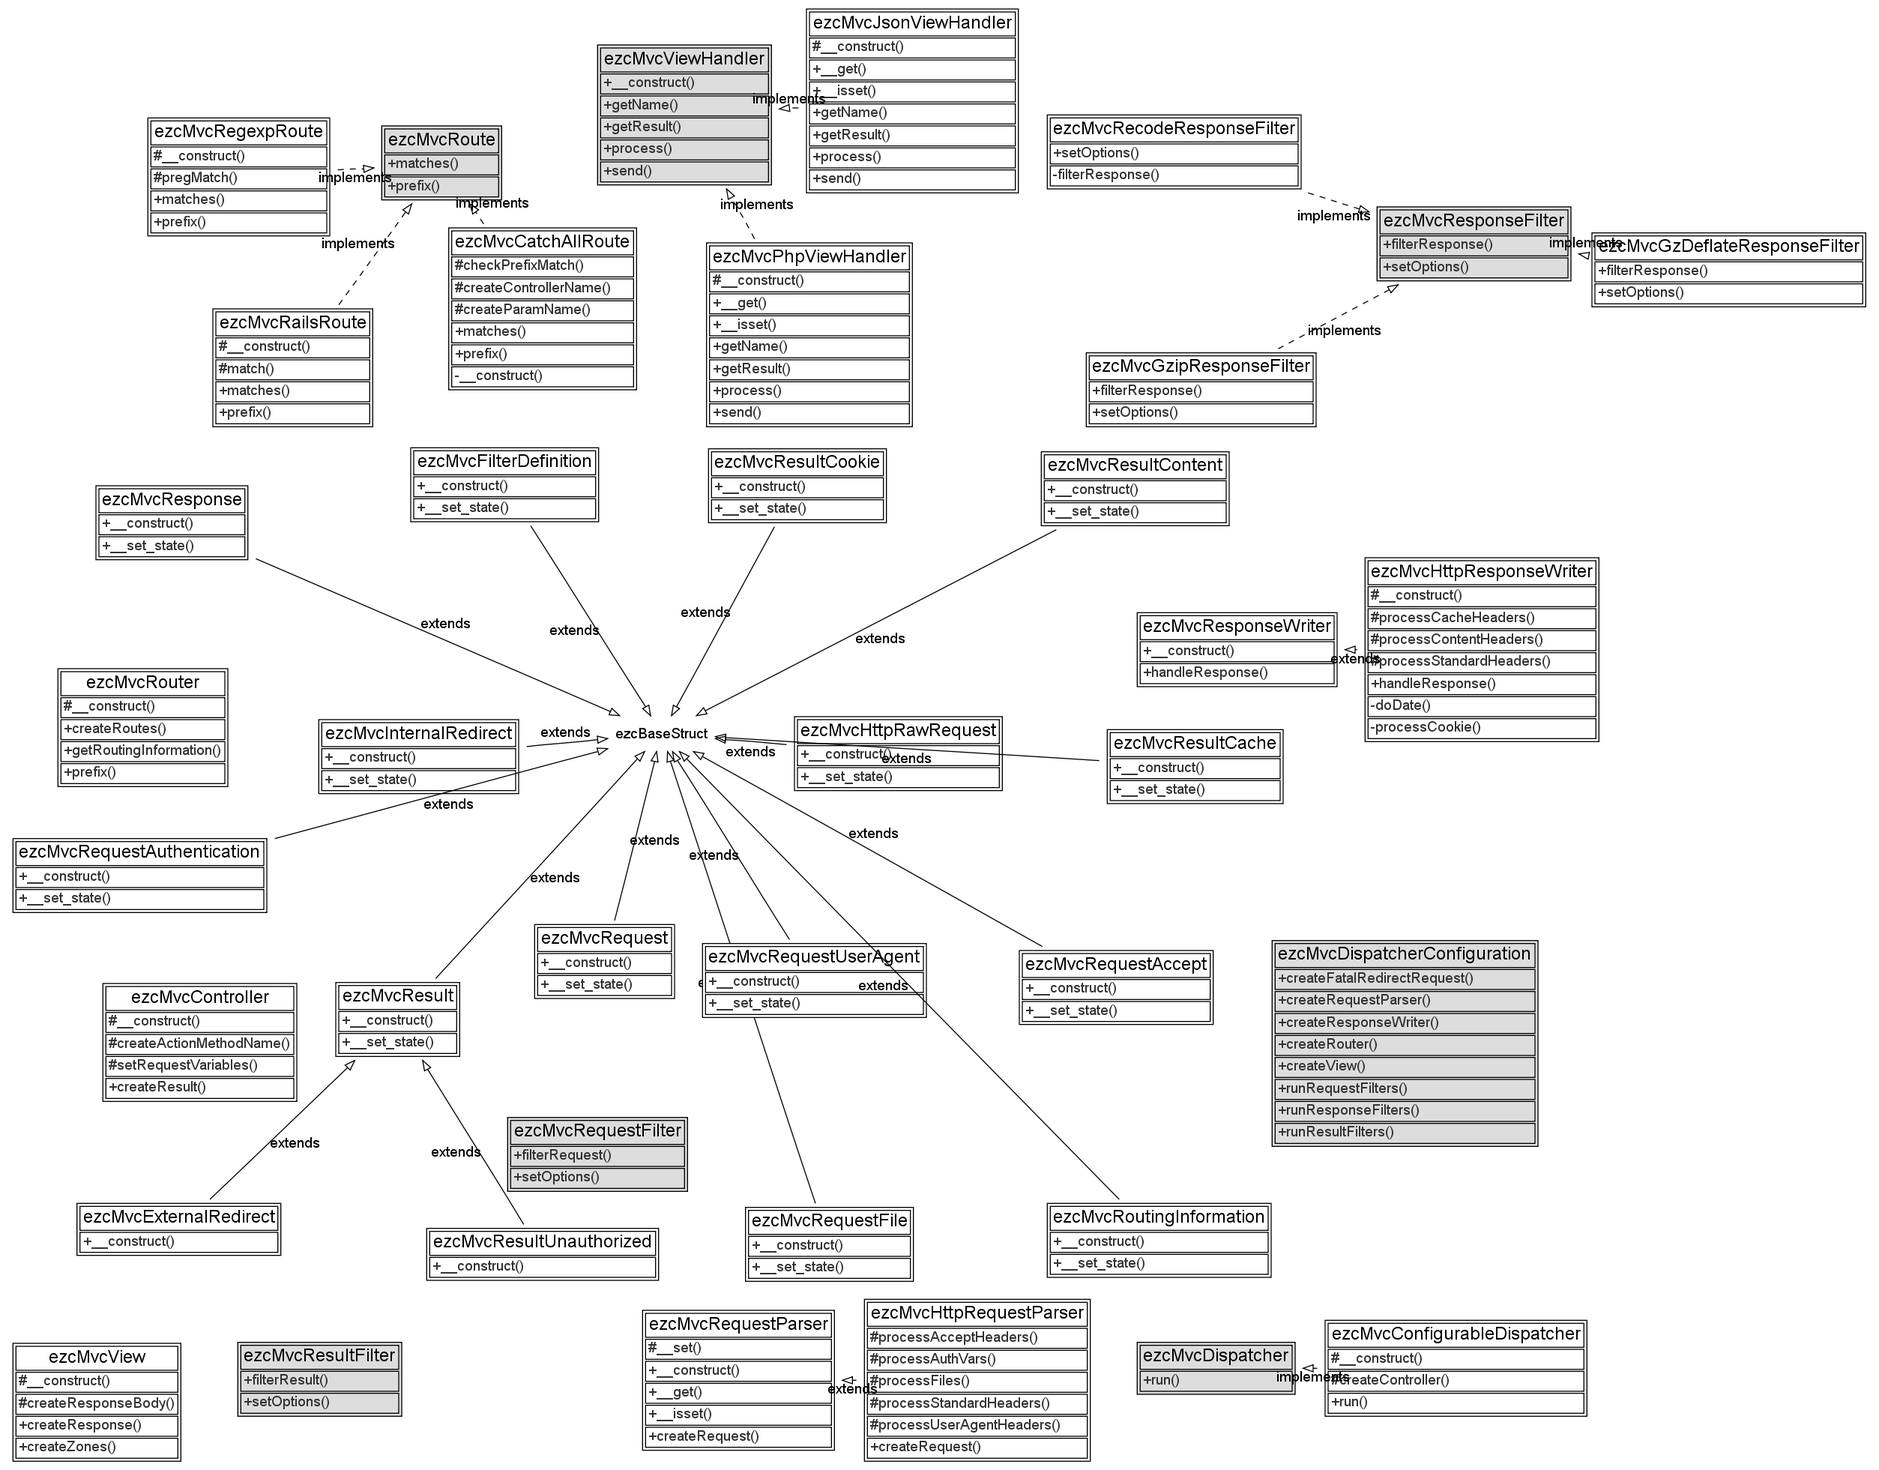
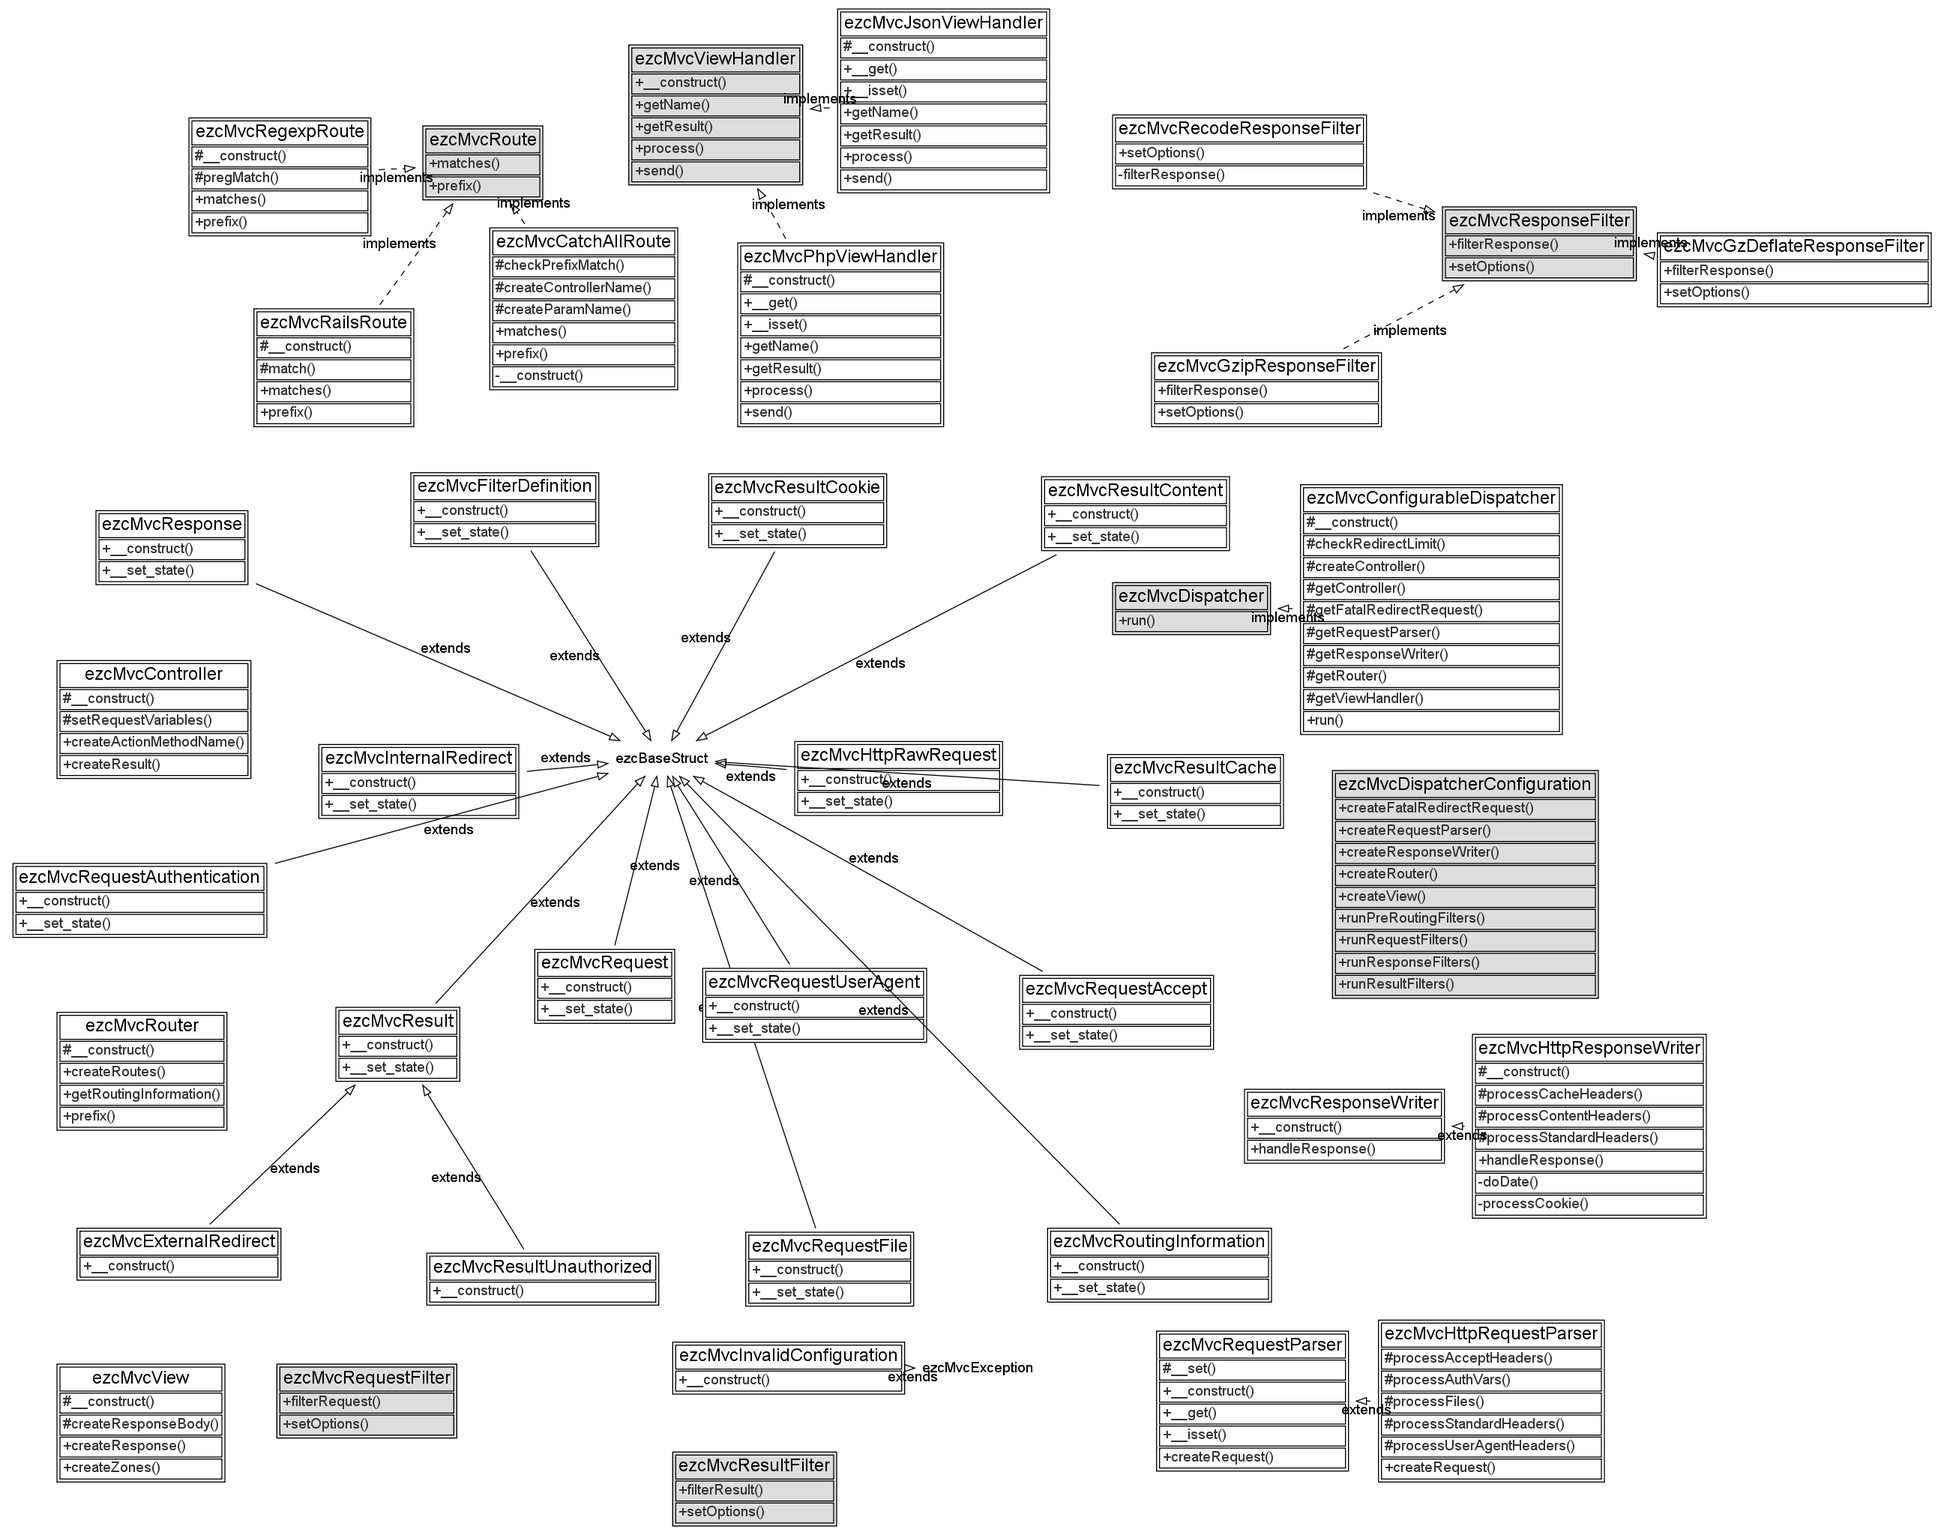
- Implemented issue #13926: Split ezcMvcDispatcherConfigurable::run() into   smaller parts.

diff --git a/src/dispatchers/configurable.php b/src/dispatchers/configurable.php
@@ -50,43 +50,161 @@ class ezcMvcConfigurableDispatcher implements ezcMvcDispatcher
     }
 
     /**
-     * Runs through the request, by using the configuration to obtain correct
-     * handlers.
+     * Checks whether the number of redirects does not exceed the limit, and
+     * increases the $redirects count.
+     *
+     * @throws ezcMvcInfiniteLoopException when the number of redirects exceeds
+     *         the limit (25 by default).
+     */
+    protected function checkRedirectLimit( &$redirects )
+    {
+        $redirects++;
+        if ( $redirects >= 25 )
+        {
+            throw new ezcMvcInfiniteLoopException( $redirects );
+        }
+    }
+
+    /**
+     * Uses the configuration to fetch the request parser
+     *
+     * @throws ezcMvcInvalidConfiguration when the returned object is of the wrong class
+     *
+     * @return ezcMvcRequestParser
+     */
+    protected function getRequestParser()
+    {
+        // create the request parser
+        $requestParser = $this->configuration->createRequestParser();
+        if ( ezcBase::inDevMode() && !$requestParser instanceof ezcMvcRequestParser )
+        {
+            throw new ezcMvcInvalidConfiguration( 'requestParser', $requestParser, 'instance of ezcMvcRequestParser' );
+        }
+        return $requestParser;
+    }
+
+    /**
+     * Uses the configuration to fetch the router
+     *
+     * @throws ezcMvcInvalidConfiguration when the returned object is of the wrong class
+     *
+     * @param ezcMvcRequest $request
+     * @return ezcMvcRouter
+     */
+    protected function getRouter( ezcMvcRequest $request )
+    {
+        $router = $this->configuration->createRouter( $request );
+        if ( ezcBase::inDevMode() && !$router instanceof ezcMvcRouter )
+        {
+            throw new ezcMvcInvalidConfiguration( 'router', $router, 'instance of ezcMvcRouter' );
+        }
+        return $router;
+    }
+
+    /**
+     * Uses the router (through createController()) to fetch the controller
+     *
+     * @throws ezcMvcInvalidConfiguration when the returned object is of the wrong class
+     *
+     * @param ezcMvcRoutingInformation $routingInformation
+     * @param ezcMvcRequest            $request
+     * @return ezcMvcController
+     */
+    protected function getController( ezcMvcRoutingInformation $routingInformation, ezcMvcRequest $request )
+    {
+        $controller = $this->createController( $routingInformation, $request );
+        if ( ezcBase::inDevMode() && !$controller instanceof ezcMvcController )
+        {
+            throw new ezcMvcInvalidConfiguration( 'controller', $controller, 'instance of ezcMvcController' );
+        }
+        return $controller;
+    }
+
+    /**
+     * Uses the configuration to fetch the view handler
+     *
+     * @throws ezcMvcInvalidConfiguration when the returned object is of the wrong class
+     *
+     * @param ezcMvcRoutingInformation $routingInformation
+     * @param ezcMvcRequest            $request
+     * @param ezcMvcResult             $result
+     * @return ezcMvcView
+     */
+    protected function getViewHandler( ezcMvcRoutingInformation $routingInformation, ezcMvcRequest $request, ezcMvcResult $result )
+    {
+        $viewHandler = $this->configuration->createView( $routingInformation, $request, $result );
+        if ( ezcBase::inDevMode() && !$viewHandler instanceof ezcMvcView )
+        {
+            throw new ezcMvcInvalidConfiguration( 'view', $viewHandler, 'instance of ezcMvcView' );
+        }
+        return $viewHandler;
+    }
+
+    /**
+     * Uses the configuration to fetch a fatal redirect request object
+     *
+     * @throws ezcMvcInvalidConfiguration when the returned object is of the wrong class
+     *
+     * @param ezcMvcRequest $request
+     * @param ezcMvcResult  $result
+     * @param Exception     $e
+     * @return ezcMvcRequest
+     */
+    protected function getFatalRedirectRequest( ezcMvcRequest $request, ezcMvcResult $result, Exception $e )
+    {
+        $request = $this->configuration->createFatalRedirectRequest( $request, new ezcMvcResult, $e );
+        if ( ezcBase::inDevMode() && !$request instanceof ezcMvcRequest )
+        {
+            throw new ezcMvcInvalidConfiguration( 'request', $request, 'instance of ezcMvcRequest' );
+        }
+        return $request;
+    }
+
+    /**
+     * Uses the configuration to fetch the response writer
+     *
+     * @throws ezcMvcInvalidConfiguration when the returned object is of the wrong class
+     *
+     * @param ezcMvcRoutingInformation $routingInformation
+     * @param ezcMvcRequest            $request
+     * @param ezcMvcResult             $result
+     * @param ezcMvcResponse           $response
+     * @return ezcMvcResponseWriter
+     */
+    protected function getResponseWriter( ezcMvcRoutingInformation $routingInformation, ezcMvcRequest $request, ezcMvcResult $result, ezcMvcResponse $response )
+    {
+        $responseWriter = $this->configuration->createResponseWriter( $routingInformation, $request, $result, $response );
+        if ( ezcBase::inDevMode() && !$responseWriter instanceof ezcMvcResponseWriter )
+        {
+            throw new ezcMvcInvalidConfiguration( 'responseWriter', $responseWriter, 'instance of ezcMvcResponseWriter' );
+        }
+        return $responseWriter;
+    }
+
+    /**
+     * Runs through the request, by using the configuration to obtain correct handlers.
      */
     public function run()
     {
         // initialize infinite loop counter
         $redirects = 0;
 
-        // create the request parser
-        $requestParser = $this->configuration->createRequestParser();
-        if ( ezcBase::inDevMode() && !$requestParser instanceof ezcMvcRequestParser )
-        {
-            throw new ezcBaseValueException( 'requestParser', $requestParser, 'instance of ezcMvcRequestParser' );
-        }
-
         // create the request
+        $requestParser = $this->getRequestParser();
         $request = $requestParser->createRequest();
 
         // start of the request loop
         do
         {
             // do the infinite loop check
-            if ( $redirects >= 25 )
-            {
-                throw new ezcMvcInfiniteLoopException( $redirects );
-            }
+            $this->checkRedirectLimit( $redirects );
             $continue = false;
 
             // run pre-routing filters
             $this->configuration->runPreRoutingFilters( $request );
 
             // create the router from the configuration
-            $router = $this->configuration->createRouter( $request );
-            if ( ezcBase::inDevMode() && !$router instanceof ezcMvcRouter )
-            {
-                throw new ezcBaseValueException( 'router', $router, 'instance of ezcMvcRouter' );
-            }
+            $router = $this->getRouter( $request );
 
             // router creates routing information
             try
@@ -95,9 +213,8 @@ class ezcMvcConfigurableDispatcher implements ezcMvcDispatcher
             }
             catch ( ezcMvcRouteNotFoundException $e )
             {
-                $request = $this->configuration->createFatalRedirectRequest( $request, new ezcMvcResult, $e );
+                $request = $this->getFatalRedirectRequest( $request, new ezcMvcResult, $e );
                 $continue = true;
-                $redirects++;
                 continue;
             }
 
@@ -108,12 +225,11 @@ class ezcMvcConfigurableDispatcher implements ezcMvcDispatcher
             {
                 $request = $filterResult->request;
                 $continue = true;
-                $redirects++;
                 continue;
             }
 
             // create the controller
-            $controller = $this->createController( $routingInformation, $request );
+            $controller = $this->getController( $routingInformation, $request );
 
             // run the controller
             try
@@ -122,13 +238,8 @@ class ezcMvcConfigurableDispatcher implements ezcMvcDispatcher
             }
             catch ( Exception $e )
             {
-                $request = $this->configuration->createFatalRedirectRequest( $request, new ezcMvcResult, $e );
-                if ( ezcBase::inDevMode() && !$request instanceof ezcMvcRequest )
-                {
-                    throw new ezcBaseValueException( 'request', $request, 'instance of ezcMvcRequest' );
-                }
+                $request = $this->getFatalRedirectRequest( $request, new ezcMvcResult, $e );
                 $continue = true;
-                $redirects++;
                 continue;
             }
 
@@ -136,7 +247,6 @@ class ezcMvcConfigurableDispatcher implements ezcMvcDispatcher
             {
                 $request = $result->request;
                 $continue = true;
-                $redirects++;
                 continue;
             }
             if ( !$result instanceof ezcMvcResult )
@@ -154,11 +264,7 @@ class ezcMvcConfigurableDispatcher implements ezcMvcDispatcher
             else
             {
                 // want the view manager to use my filters
-                $viewHandler = $this->configuration->createView( $routingInformation, $request, $result );
-                if ( ezcBase::inDevMode() && !$viewHandler instanceof ezcMvcView )
-                {
-                    throw new ezcBaseValueException( 'view', $viewHandler, 'instance of ezcMvcView' );
-                }
+                $viewHandler = $this->getViewHandler( $routingInformation, $request, $result );
 
                 // create the response
                 try
@@ -167,20 +273,15 @@ class ezcMvcConfigurableDispatcher implements ezcMvcDispatcher
                 }
                 catch ( Exception $e )
                 {
-                    $request = $this->configuration->createFatalRedirectRequest( $request, $result, $e );
+                    $request = $this->getFatalRedirectRequest( $request, $result, $e );
                     $continue = true;
-                    $redirects++;
                     continue;
                 }
             }
             $this->configuration->runResponseFilters( $routingInformation, $request, $result, $response );
 
             // create the response writer
-            $responseWriter = $this->configuration->createResponseWriter( $routingInformation, $request, $result, $response );
-            if ( ezcBase::inDevMode() && !$responseWriter instanceof ezcMvcResponseWriter )
-            {
-                throw new ezcBaseValueException( 'responseWriter', $responseWriter, 'instance of ezcMvcResponseWriter' );
-            }
+            $responseWriter = $this->getResponseWriter( $routingInformation, $request, $result, $response );
 
             // handle the response
             $responseWriter->handleResponse();

diff --git a/tests/dispatchers/configurable.php b/tests/dispatchers/configurable.php
@@ -162,7 +162,7 @@ class ezcMvcToolsConfigurableDispatcherTest extends ezcTestCase
             $dispatcher->run();
             self::fail( "Expected exception not thrown." );
         }
-        catch ( ezcBaseValueException $e )
+        catch ( ezcMvcInvalidConfiguration $e )
         {
             return $e->getMessage();
         }
@@ -171,31 +171,37 @@ class ezcMvcToolsConfigurableDispatcherTest extends ezcTestCase
     public function testWrongRequestParserClass()
     {
         $e = self::commonWrongTest( 'request-parser' );
-        self::assertEquals( "The value 'O:8:\"stdClass\":0:{}' that you were trying to assign to setting 'requestParser' is invalid. Allowed values are: instance of ezcMvcRequestParser.", $e );
+        self::assertEquals( "The configuration returned an invalid object for 'requestParser', instance of ezcMvcRequestParser expected, but instance of class stdClass found.", $e );
     }
 
     public function testWrongRouterClass()
     {
         $e = self::commonWrongTest( 'router' );
-        self::assertEquals( "The value 'O:8:\"stdClass\":0:{}' that you were trying to assign to setting 'router' is invalid. Allowed values are: instance of ezcMvcRouter.", $e );
+        self::assertEquals( "The configuration returned an invalid object for 'router', instance of ezcMvcRouter expected, but instance of class stdClass found.", $e );
     }
 
     public function testWrongViewClass()
     {
         $e = self::commonWrongTest( 'view' );
-        self::assertEquals( "The value 'O:8:\"stdClass\":0:{}' that you were trying to assign to setting 'view' is invalid. Allowed values are: instance of ezcMvcView.", $e );
+        self::assertEquals( "The configuration returned an invalid object for 'view', instance of ezcMvcView expected, but instance of class stdClass found.", $e );
+    }
+
+    public function testWrongControllerClass()
+    {
+        $e = self::commonWrongTest( 'controller' );
+        self::assertEquals( "The configuration returned an invalid object for 'controller', instance of ezcMvcController expected, but instance of class stdClass found.", $e );
     }
 
     public function testWrongResponseWriter()
     {
         $e = self::commonWrongTest( 'response-writer' );
-        self::assertEquals( "The value 'O:8:\"stdClass\":1:{s:6:\"config\";O:29:\"testWrongObjectsConfiguration\":1:{s:4:\"fail\";s:15:\"response-writer\";}}' that you were trying to assign to setting 'responseWriter' is invalid. Allowed values are: instance of ezcMvcResponseWriter.", $e );
+        self::assertEquals( "The configuration returned an invalid object for 'responseWriter', instance of ezcMvcResponseWriter expected, but instance of class stdClass found.", $e );
     }
 
     public function testWrongFatalRedirectClass()
     {
         $e = self::commonWrongTest( 'fatal' );
-        self::assertEquals( "The value 'O:8:\"stdClass\":0:{}' that you were trying to assign to setting 'request' is invalid. Allowed values are: instance of ezcMvcRequest.", $e );
+        self::assertEquals( "The configuration returned an invalid object for 'request', instance of ezcMvcRequest expected, but instance of class stdClass found.", $e );
     }
 
     public static function suite()

diff --git a/src/exceptions/invalid_configuration.php b/src/exceptions/invalid_configuration.php
@@ -1,0 +1,38 @@
+<?php
+/**
+ * File containing the ezcMvcInvalidConfiguration eception
+ *
+ * @package MvcTools
+ * @version //autogen//
+ * @copyright Copyright (C) 2005-2008 eZ systems as. All rights reserved.
+ * @license http://ez.no/licenses/new_bsd New BSD License
+ */
+
+/**
+ * Exception that is thrown if an invalid class is returned from any of the
+ * configuration methods of the ezcMvcConfigurableDispatcher configuration.
+ *
+ * @package MvcTools
+ * @version //autogen//
+ */
+class ezcMvcInvalidConfiguration extends ezcMvcToolsException
+{
+    /**
+     * Constructs a new ezcMvcInvalidConfiguration exception for configuration $item
+     *
+     * @param string $item
+     * @param mixed  $real
+     * @param string $expected
+     * @return void
+     */
+    function __construct( $item, $real, $expected )
+    {
+        $type = gettype( $real );
+        if ( $type == 'object' )
+        {
+            $type = 'instance of class ' . get_class( $real );
+        }
+        parent::__construct( "The configuration returned an invalid object for '{$item}', {$expected} expected, but {$type} found." );
+    }
+}
+?>

diff --git a/tests/testfiles/configurable-dispatcher.php b/tests/testfiles/configurable-dispatcher.php
@@ -132,6 +132,16 @@ class testRouter extends ezcMvcRouter
     }
 }
 
+class testBrokenControllerRouter extends ezcMvcRouter
+{
+    public function createRoutes()
+    {
+        return array(
+            new ezcMvcRegexpRoute( '@^/$@', 'stdClass', 'foo' ),
+        );
+    }
+}
+
 class testIRControllerRouter extends ezcMvcRouter
 {
     public function createRoutes()
@@ -360,6 +370,10 @@ class testWrongObjectsConfiguration implements ezcMvcDispatcherConfiguration
         if ( $this->fail === 'fatal' )
         {
             return new testExceptionInActionRouter( $request );
+        }
+        if ( $this->fail === 'controller' )
+        {
+            return new testBrokenControllerRouter( $request );
         }
         return $this->fail == 'router' ? new stdClass() : new testRouter( $request );
     }

diff --git a/src/mvc_autoload.php b/src/mvc_autoload.php
@@ -15,6 +15,7 @@ return array(
     'ezcMvcControllerException'         => 'MvcTools/exceptions/controller.php',
     'ezcMvcFilterHasNoOptionsException' => 'MvcTools/exceptions/filter_has_no_options.php',
     'ezcMvcInfiniteLoopException'       => 'MvcTools/exceptions/infinite_loop.php',
+    'ezcMvcInvalidConfiguration'        => 'MvcTools/exceptions/invalid_configuration.php',
     'ezcMvcInvalidEncodingException'    => 'MvcTools/exceptions/invalid_encoding.php',
     'ezcMvcNoRoutesException'           => 'MvcTools/exceptions/no_routes.php',
     'ezcMvcNoZonesException'            => 'MvcTools/exceptions/no_zones.php',
